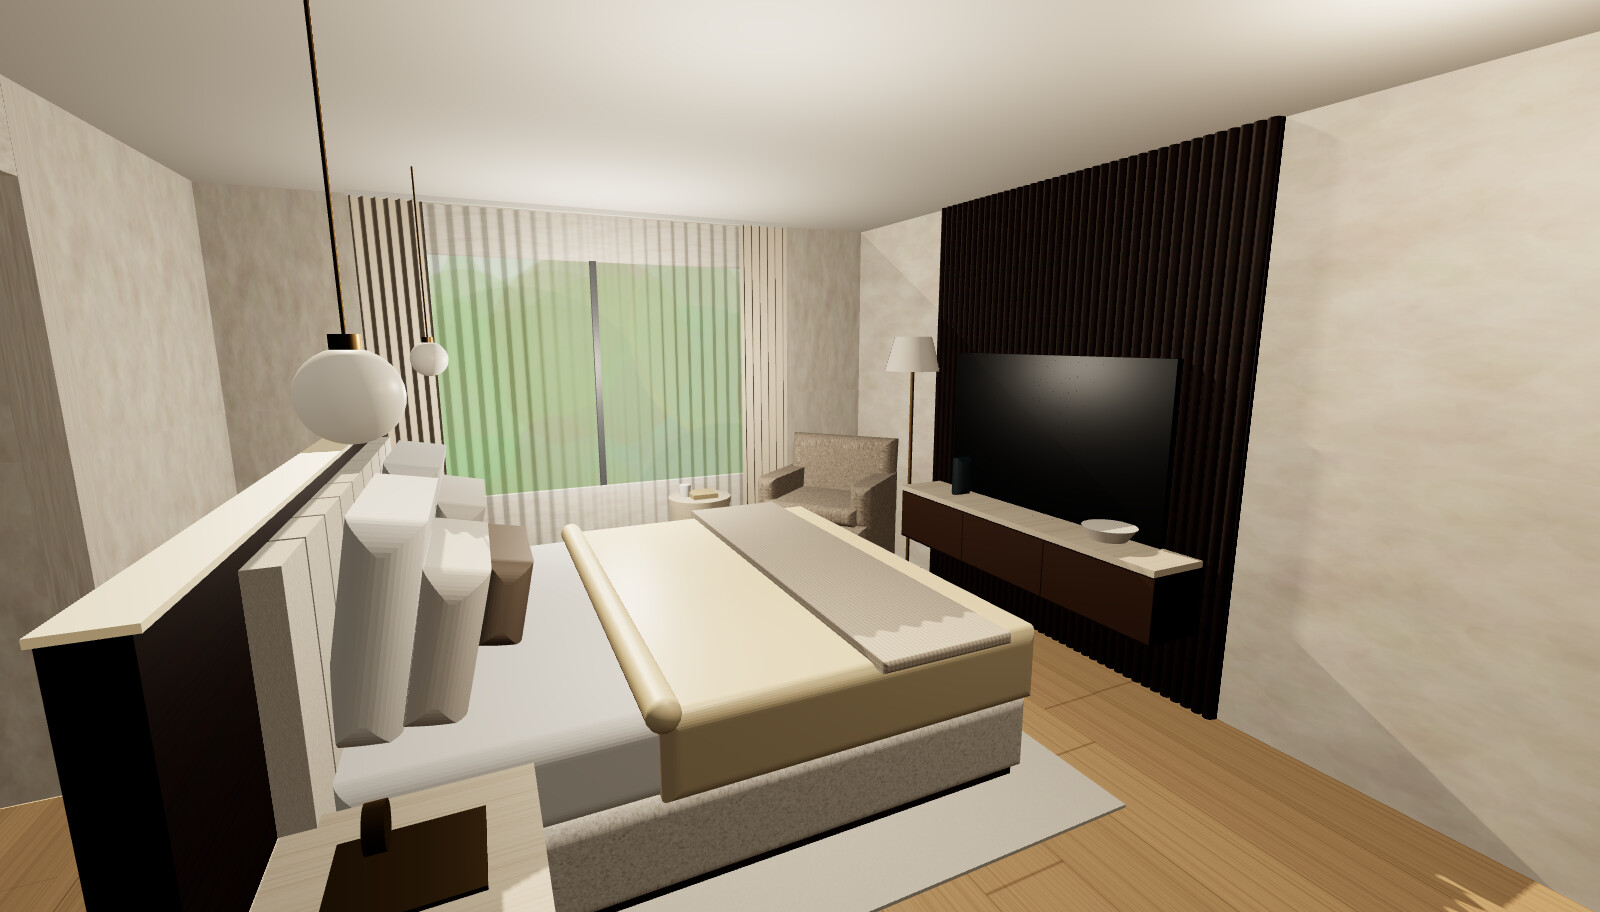
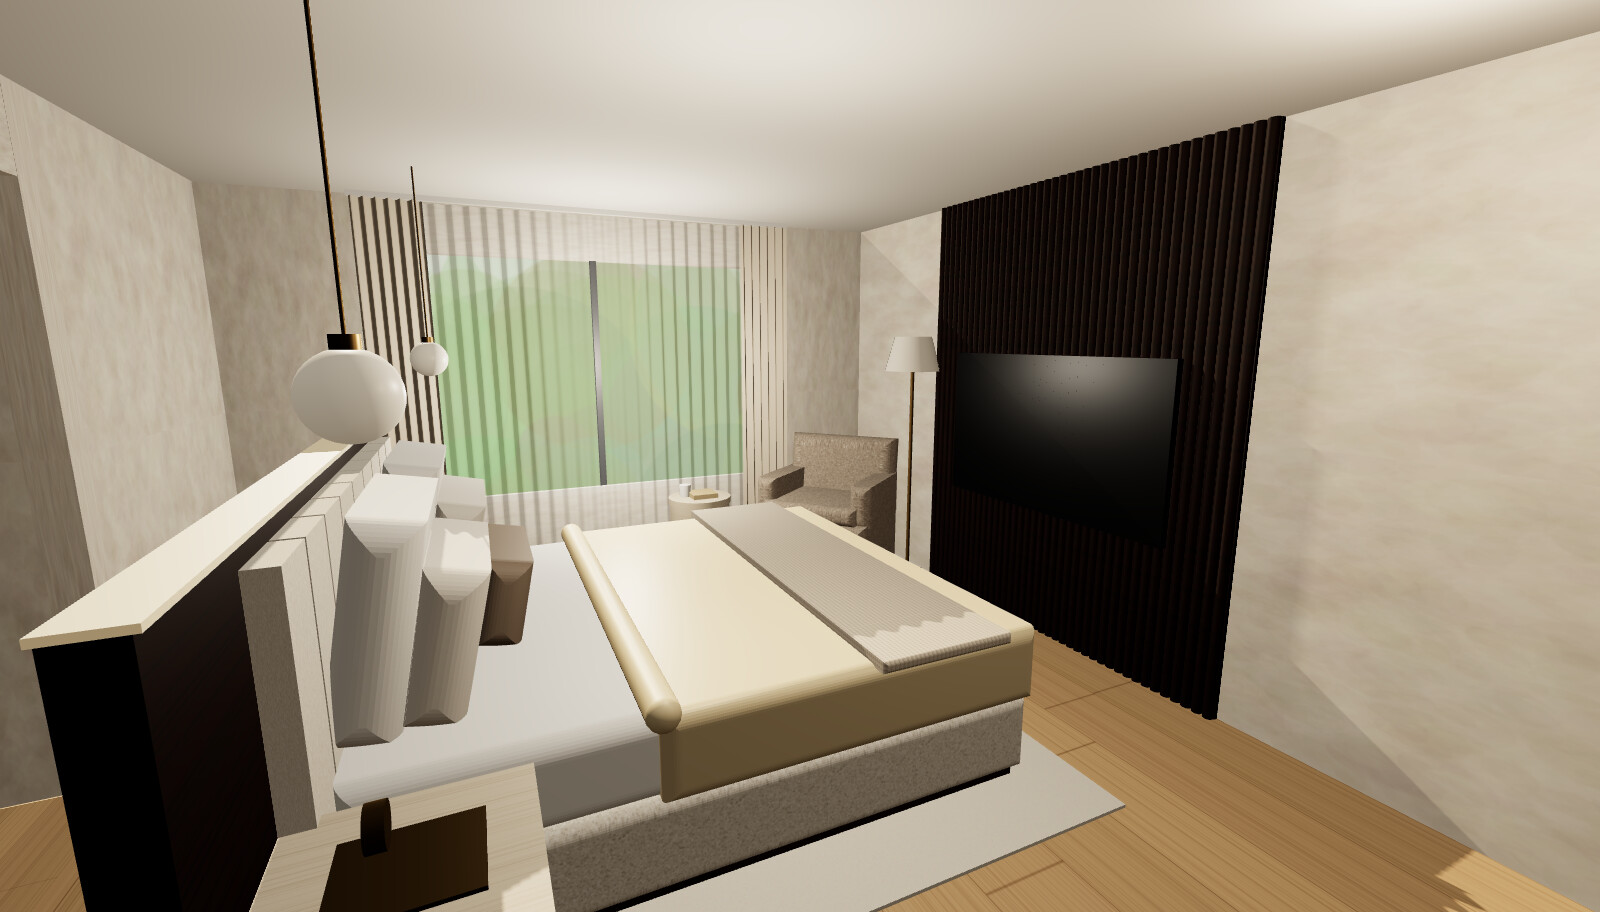
Remove floating TV unit; TV only on fluted walnut panel
Claude-Session: https://claude.ai/code/session_01P4LkCESWoGV8P5QgBbWSmy

Changed region(s): [[0.5625, 0.5219, 0.75, 0.7061], [0.9062, 0.9211, 0.9688, 1.0]]

diff --git a/renders/bedroom-1-3d.html b/renders/bedroom-1-3d.html
@@ -147,12 +147,7 @@ box(2.8,3.08,0.56,0.57,1.5,1.75,brass); cyl(3.0,0.62,1.7,0.05,0.05,0.04,brass).r
 for(let i=0;i<40;i++){ const z0=1.85+i*0.05; const fl=cyl(0.025,CH/2,z0+0.025,0.022,0.022,CH,walnut,12); }
 box(0,0.02,0,CH,1.85,3.85,walnut);
 box(0.045,0.085,0.685,1.515,2.125,3.575,black);              // 65" TV, off
-box(0.05,0.34,0.35,0.65,1.95,3.75,walnut);                   // floating unit
-for(let k=0;k<3;k++){ const z0=1.95+k*0.6; box(0.339,0.341,0.36,0.64,z0+0.003,z0+0.597,mat('#4a2f1d',0.6)); }
-box(0.05,0.35,0.65,0.68,1.95,3.75,travertine);
-const glow=box(0.06,0.3,0.345,0.35,2.0,3.7,mat('#fff2d4',0.5,0,{emissive:'#ffcf8a',emissiveIntensity:0.6}),false,false);
-// objects on unit
-cyl(0.2,0.73,2.3,0.12,0.08,0.06,mat('#e8e1d6',0.5)); pillow(0.2,0.8,3.35,0.1,0.22,0.1,mat('#2f3a40',0.4),0);
+// (no TV unit - TV only, cables concealed in wall)
 
 // ---------- Lounge nook (SW corner) ----------
 const nook=new THREE.Group(); nook.position.set(0.58,0,4.32); nook.rotation.y=Math.PI*0.72; scene.add(nook);
